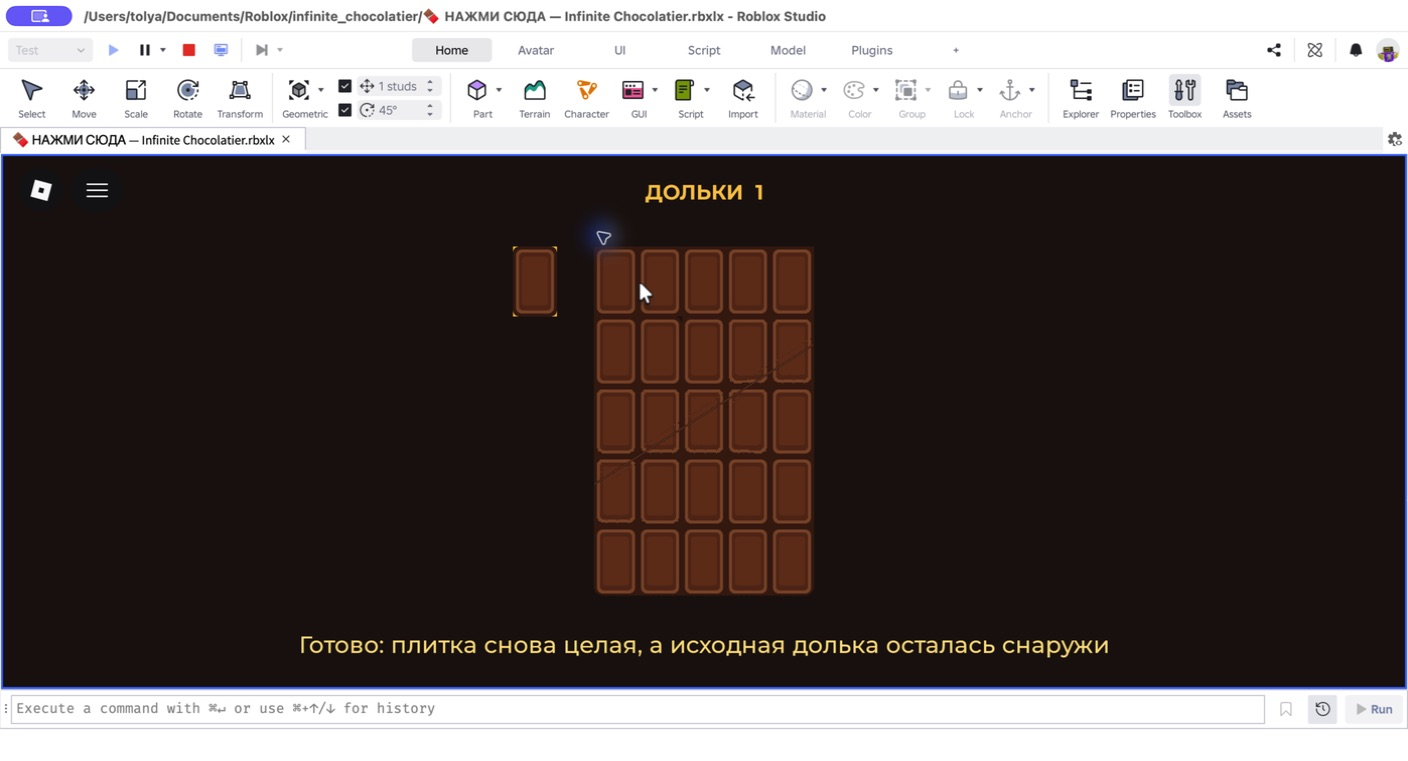
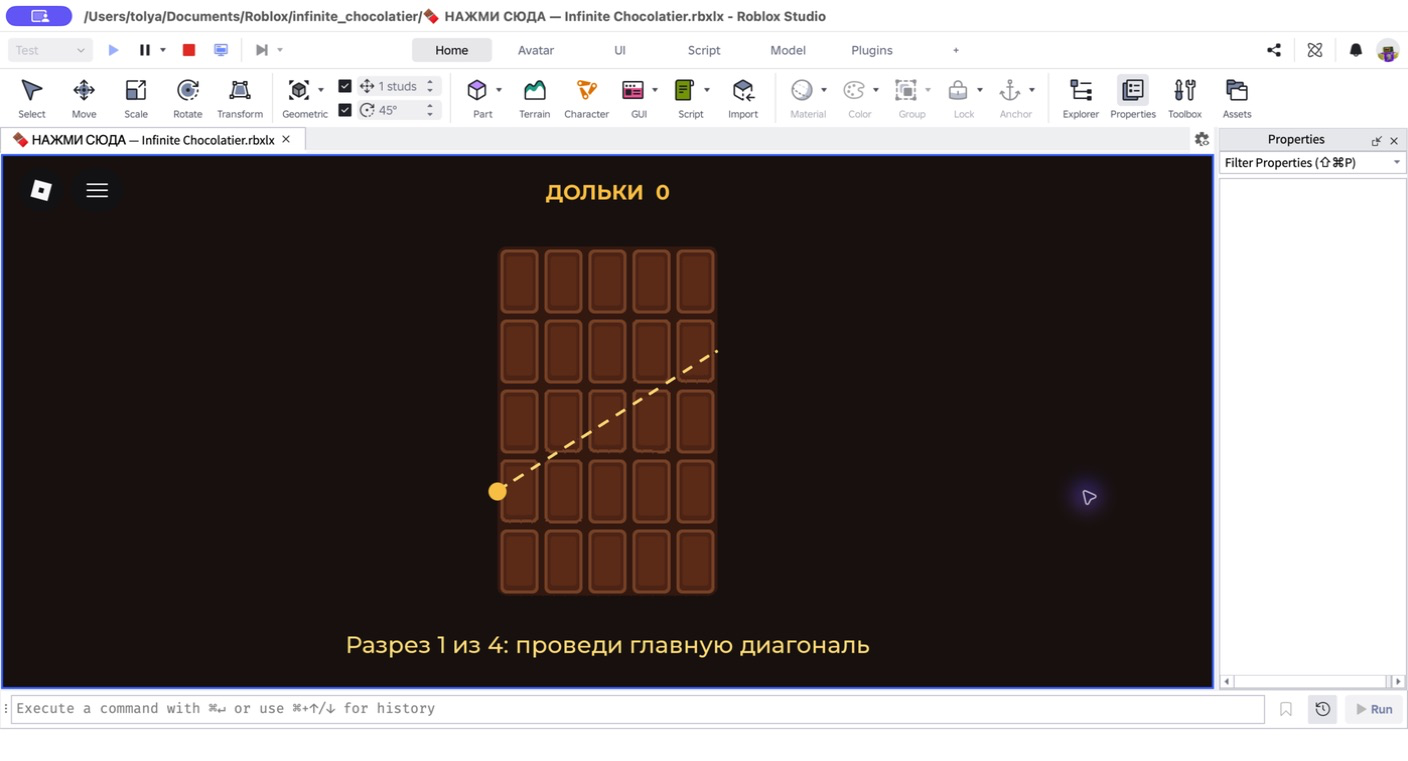
Keep optical extension beneath intact tiles

diff --git a/HANDOFF.md b/HANDOFF.md
@@ -30,8 +30,9 @@ Rojo и Roblox Studio.
 - сама полоса игроку не показывается: нижние края спрайтов двух верхних
   полигонов оптически продолжаются на `0,2` ряда вместе с рамками и рельефом,
   поэтому после сборки остаётся только тонкий естественный шов;
-- продолжение готово до начала разреза и скрыто точным наложением на основание;
-  при сдвиге нет полупрозрачного слоя, дорисовывания или изменения формы;
+- продолжение готово до начала разреза в отдельной подложке ниже физических
+  частей: оно не перекрывает фаски исходных долек, а при сдвиге едет вместе с
+  верхними частями без полупрозрачного слоя, дорисовывания или изменения формы;
 - двухдольный блок закрывает верхнюю нишу, а подсвеченная одиночная долька —
   настоящий исходный кусок, не новый шоколадный `Instance`;
 - полноэкранный UI с минимальным HUD и инструкцией внизу;
@@ -77,6 +78,9 @@ rojo serve
 ровно одной дольки и автоматический сброс. Отдельно проверено, что широкая
 Curry-полоса больше не видна, сетка продолжается через неё без ступенек, а
 заранее подготовленная кромка не возникает на глазах во время сдвига.
+На контрольном стартовом кадре 2026-08-22 все 25 долек, включая пересечённые
+диагональю, имеют одинаковые фаски и внутренний рельеф: Curry-кромка вынесена
+в отдельную нижнюю подложку и не перекрывает цельный шоколад.
 Отдельно проверено, что отпускание на прежних 94% не завершает диагональ, а
 следующий пунктир появляется лишь после доведения последних пикселей и
 отпускания. Developer Console показала `0` ошибок и `0` предупреждений.

diff --git a/README.md b/README.md
@@ -31,7 +31,9 @@
 создаётся. Чтобы не выдавать устройство фокуса чёрной полосой, существующие
 спрайты пересечённых долек незаметно продолжаются вниз на `0,2` ряда: вместе
 растягиваются шоколад, рамка и внутренний рельеф. Кромка подготовлена заранее:
-до разреза она скрыта точным перекрытием с основанием, а при движении уже не
+она находится в отдельной подложке ниже всех настоящих долек, поэтому до
+разреза все 25 долек имеют одинаковый чистый рельеф. При движении подложка
+едет вместе с верхними частями и видна только в открытом зазоре; ничего не
 дорисовывается и не меняет прозрачность. Подробности и фазы ролика записаны в
 [REFERENCE_ANALYSIS.md](REFERENCE_ANALYSIS.md).
 
@@ -56,6 +58,8 @@ rojo build --output /tmp/infinite-chocolatier-sol-check.rbxlx
 автоматического сброса; широкая полоса скрыта, динамического дорисовывания нет,
 а диагональ на прежних 94% остаётся незавершённой до последних пикселей и
 отпускания. Счётчики Developer Console показывают 0 ошибок и 0 предупреждений.
+На контрольном стартовом кадре 2026-08-22 отдельно подтверждено: все 25 долек,
+включая пересечённые пунктиром, имеют одинаковые фаски и внутренний рельеф.
 Контрольный кадр:
 [infinite-chocolatier-preloaded-stretch-result.png](infinite-chocolatier-preloaded-stretch-result.png).
 Place не публиковался.
